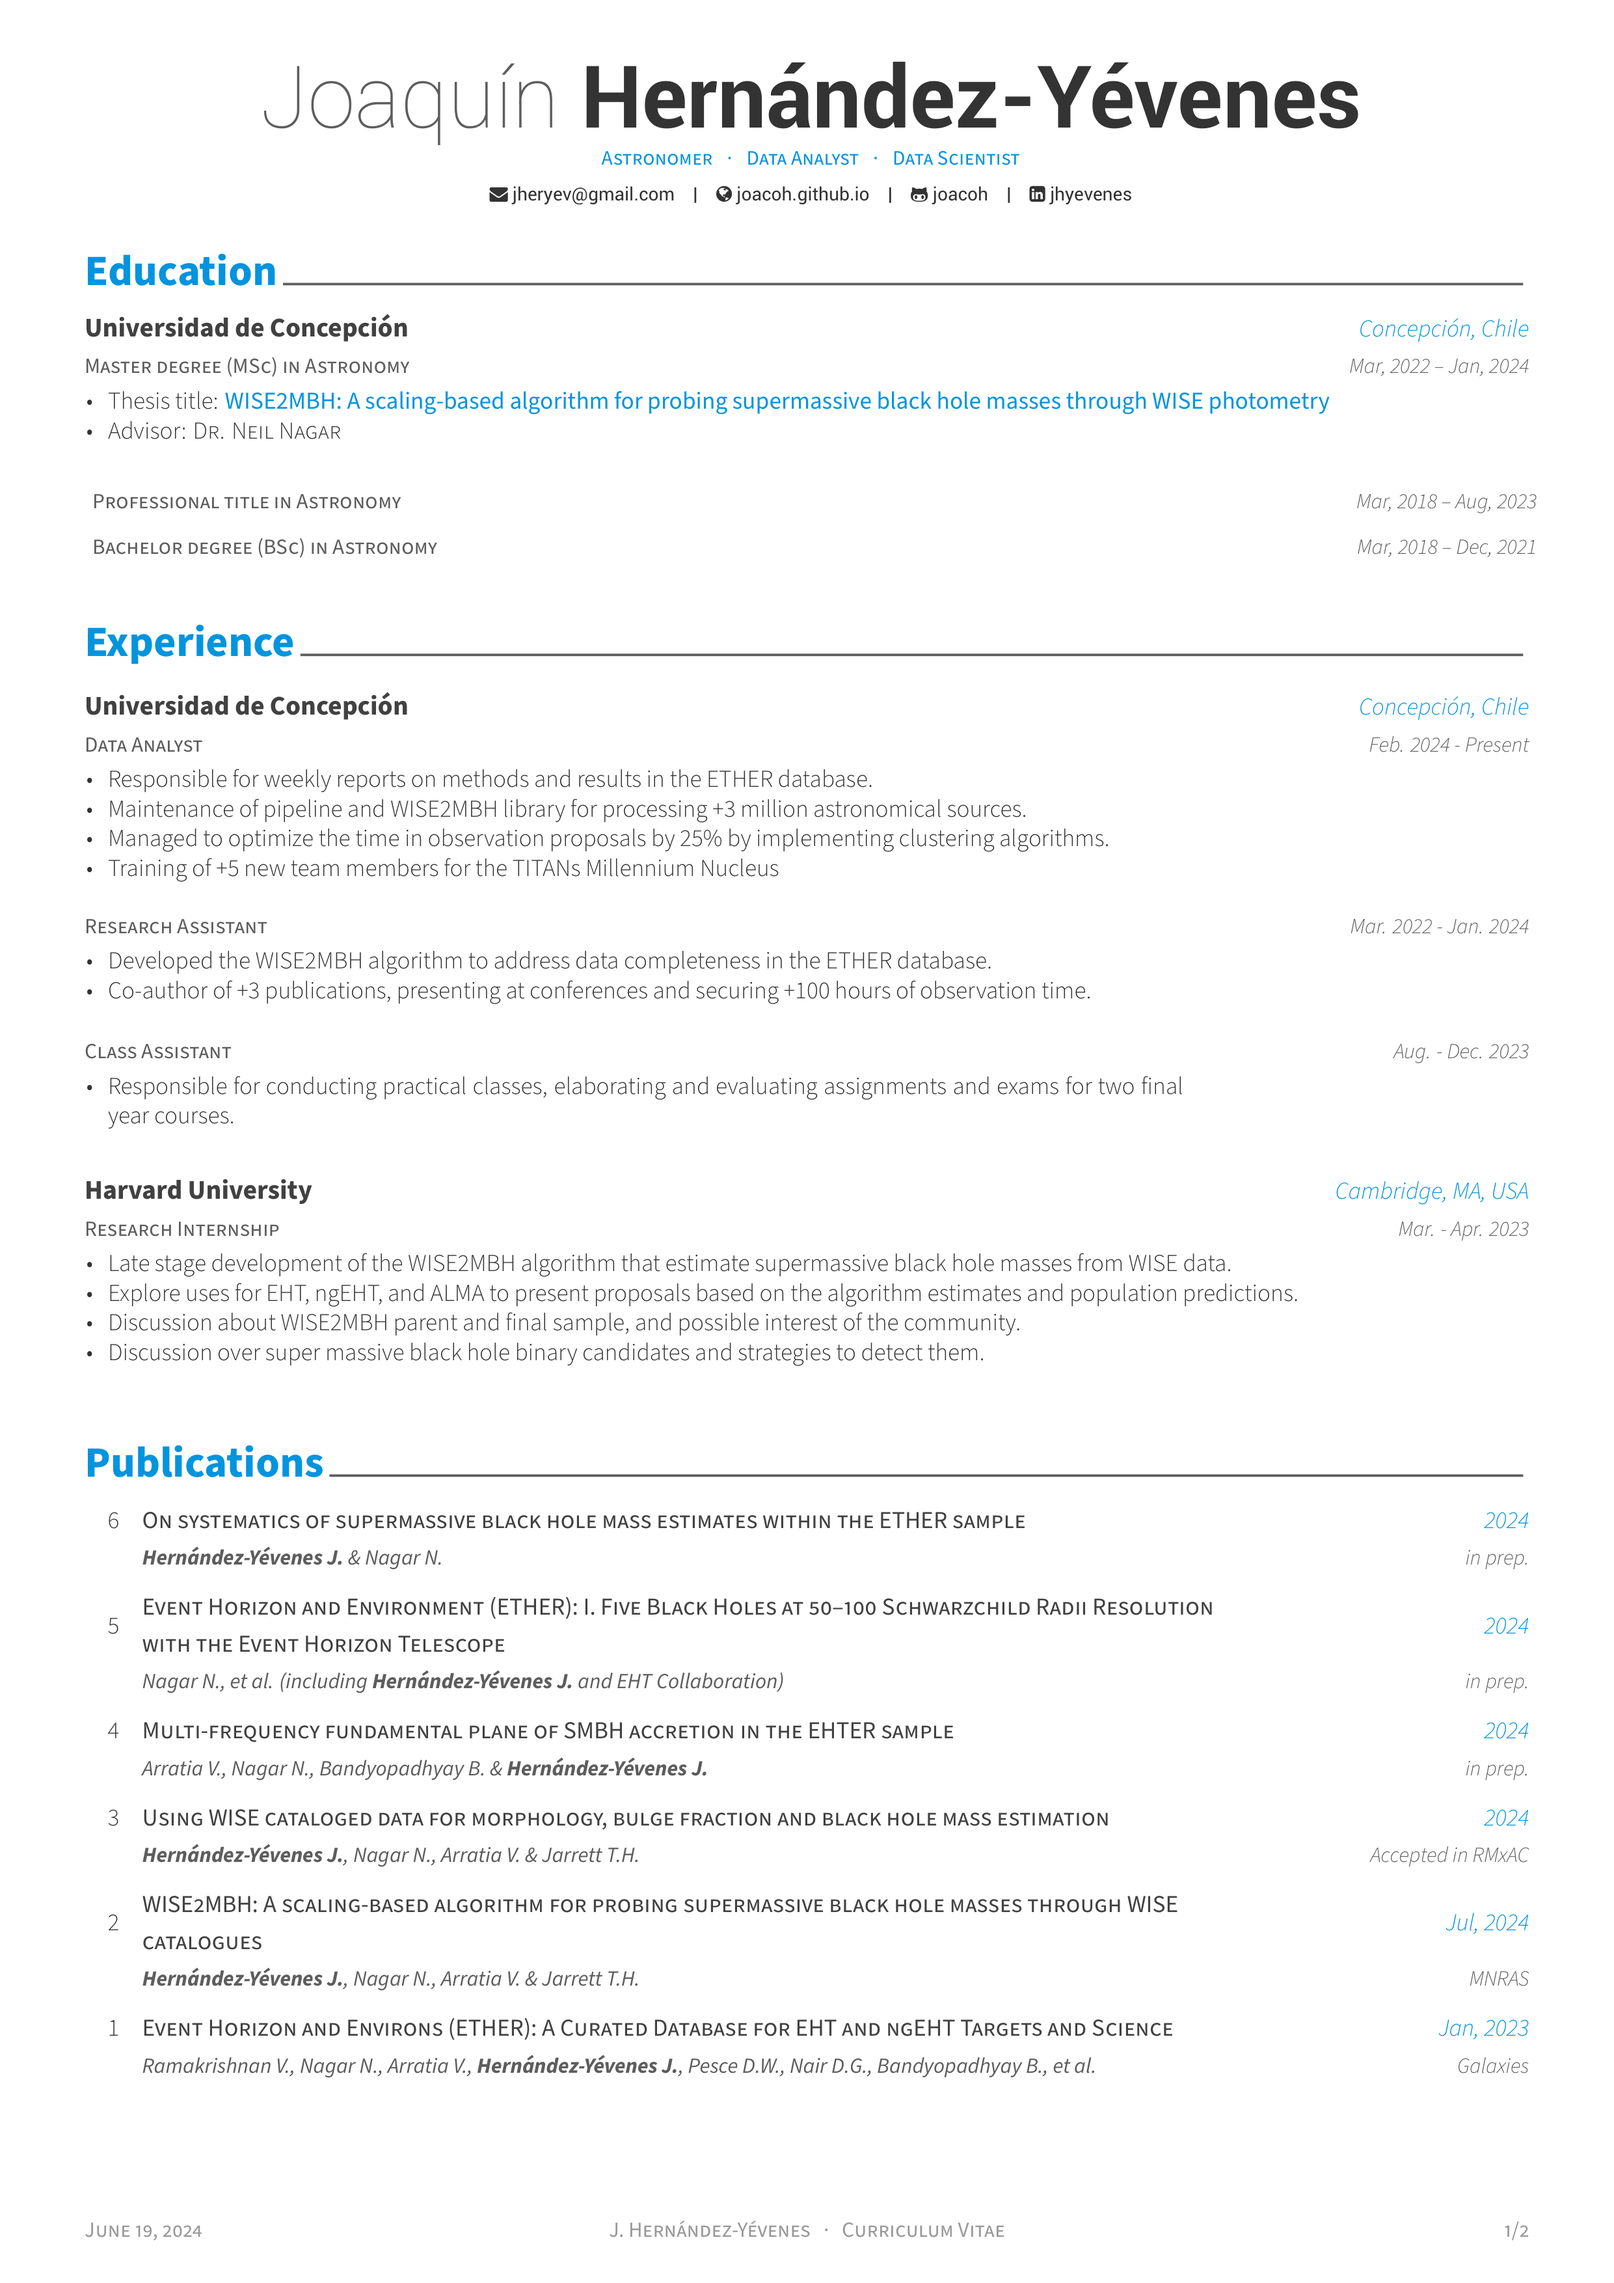
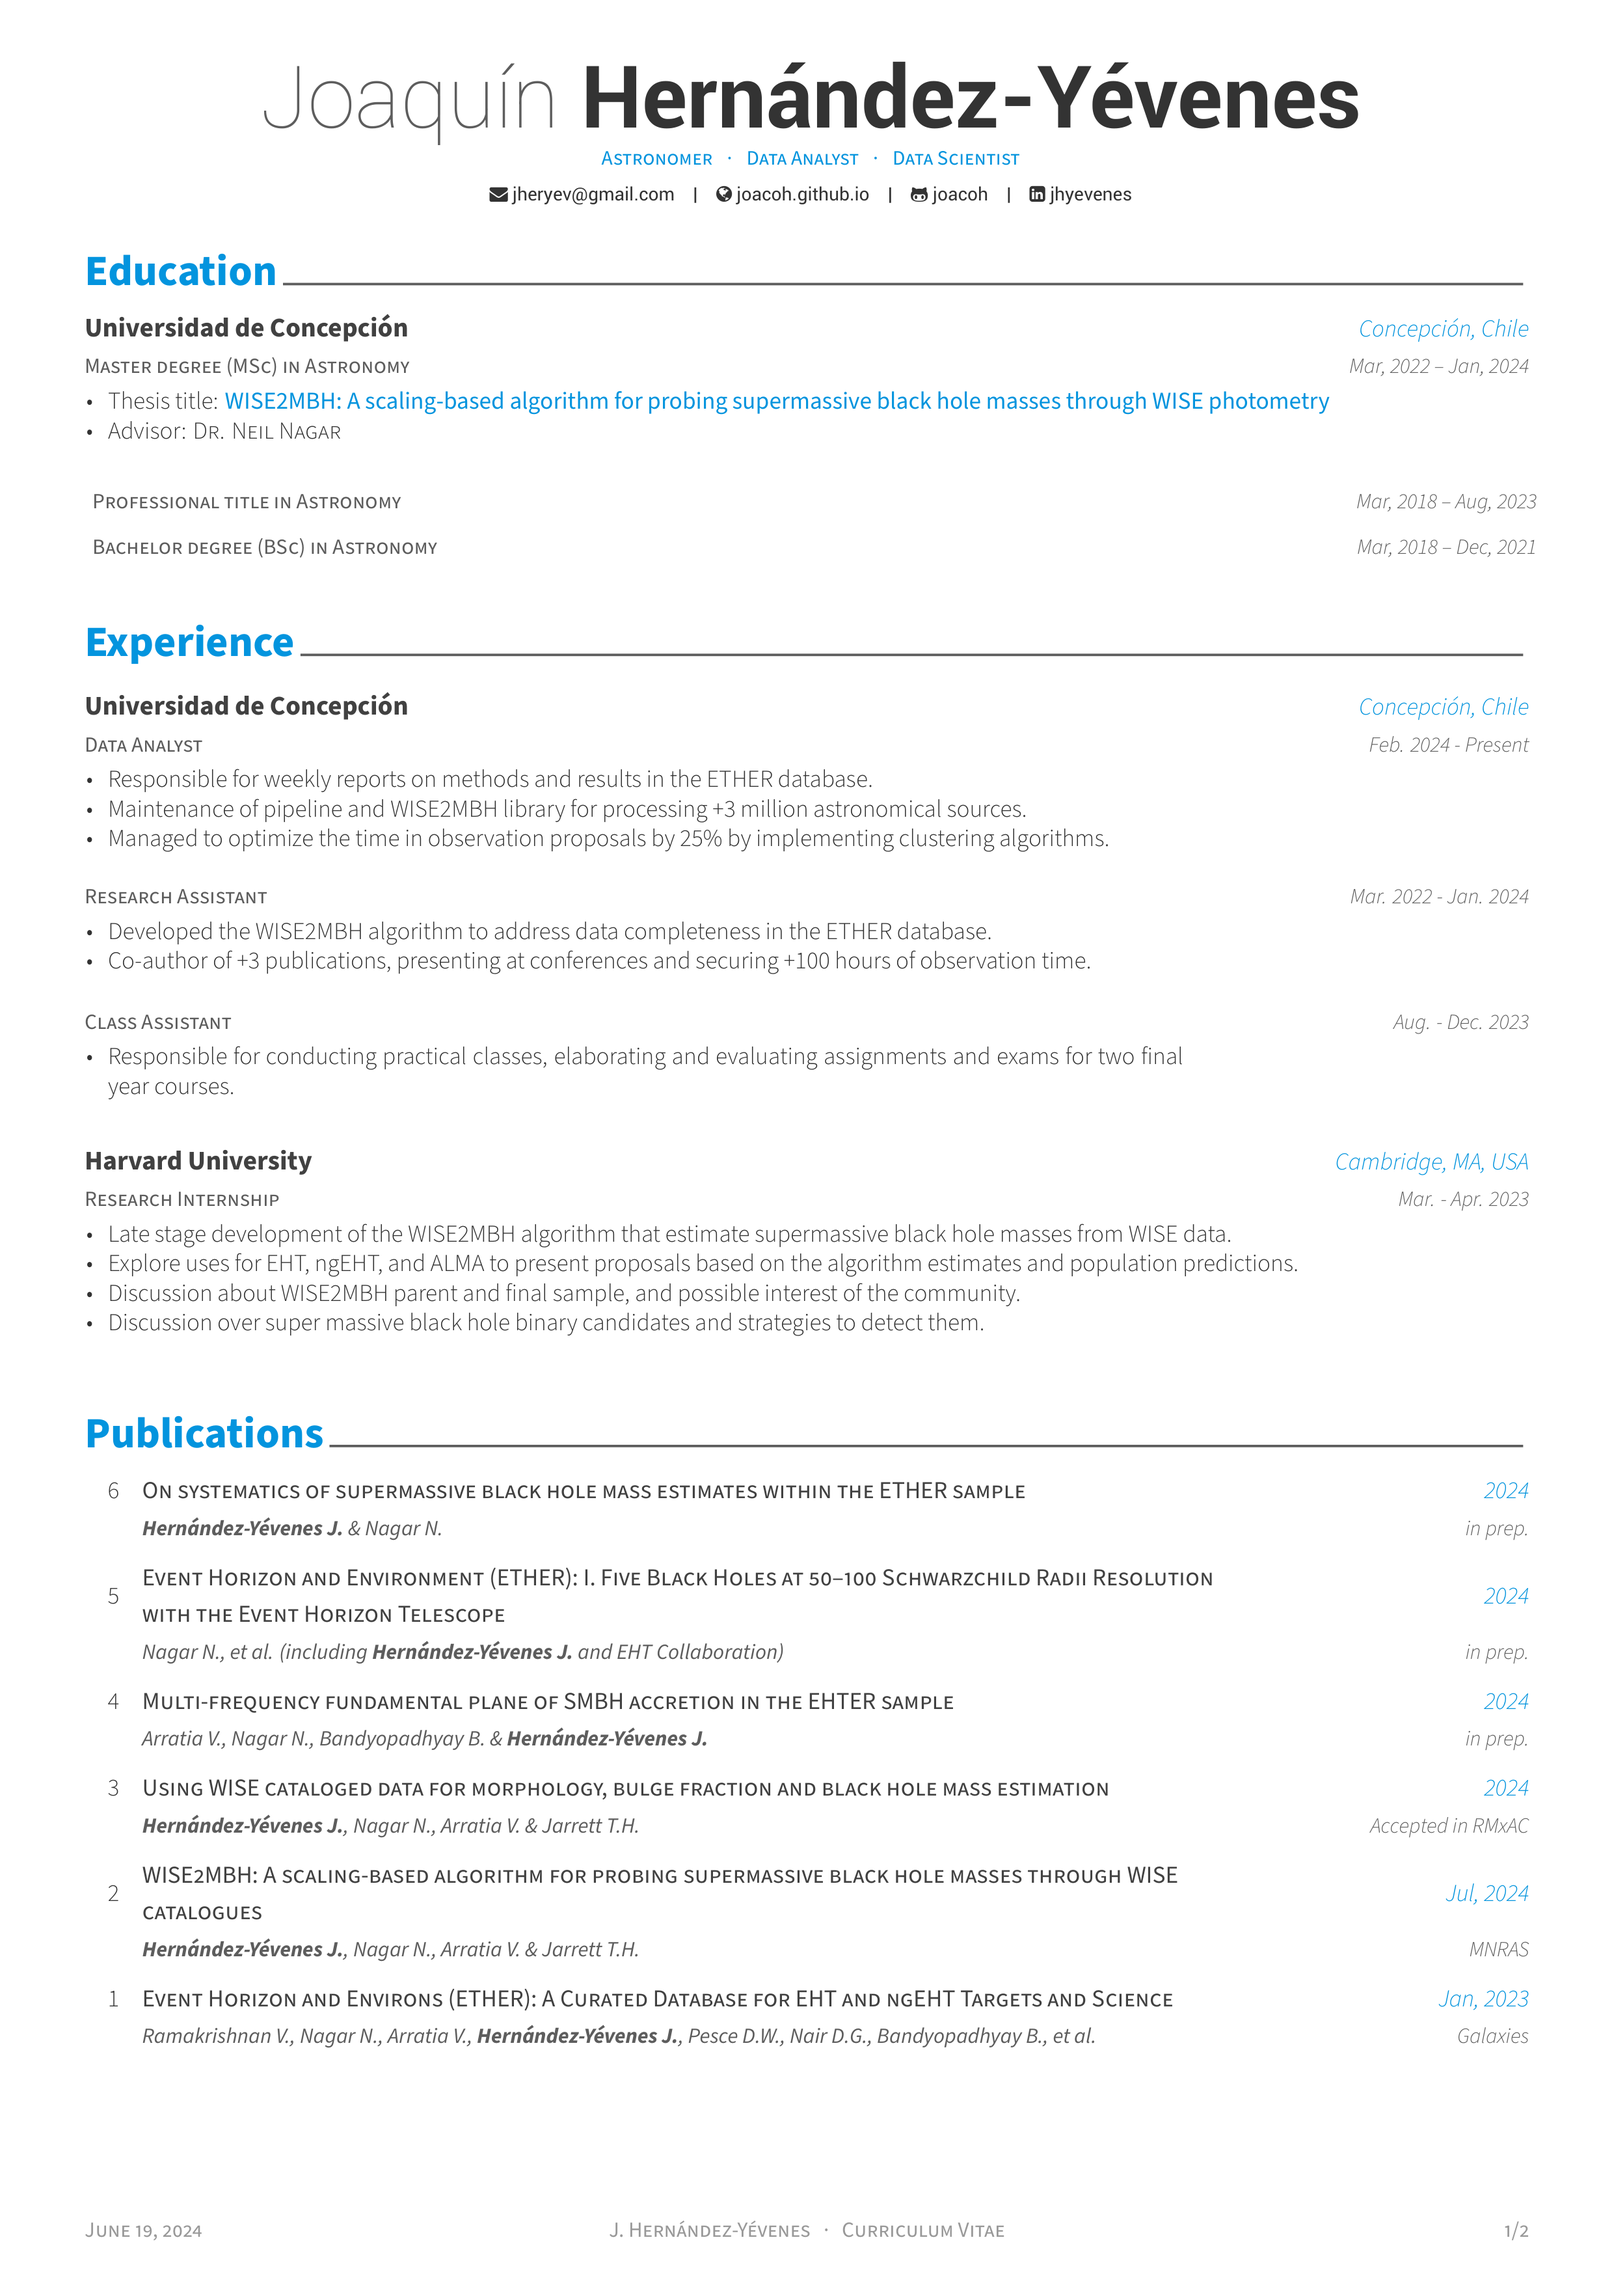
Typo on Experience

diff --git a/data/experience.tex b/data/experience.tex
@@ -12,7 +12,6 @@
         \item{Responsible for weekly reports on methods and results in the ETHER database.}
         \item{Maintenance of pipeline and WISE2MBH library for processing +3 million astronomical sources.}
         \item{Managed to optimize the time in observation proposals by 25\% by implementing clustering algorithms.}
-        \item{Training of +5 new team members for the TITANs Millennium Nucleus}
       \end{cvitems}
       \vspace{1em}
     }
